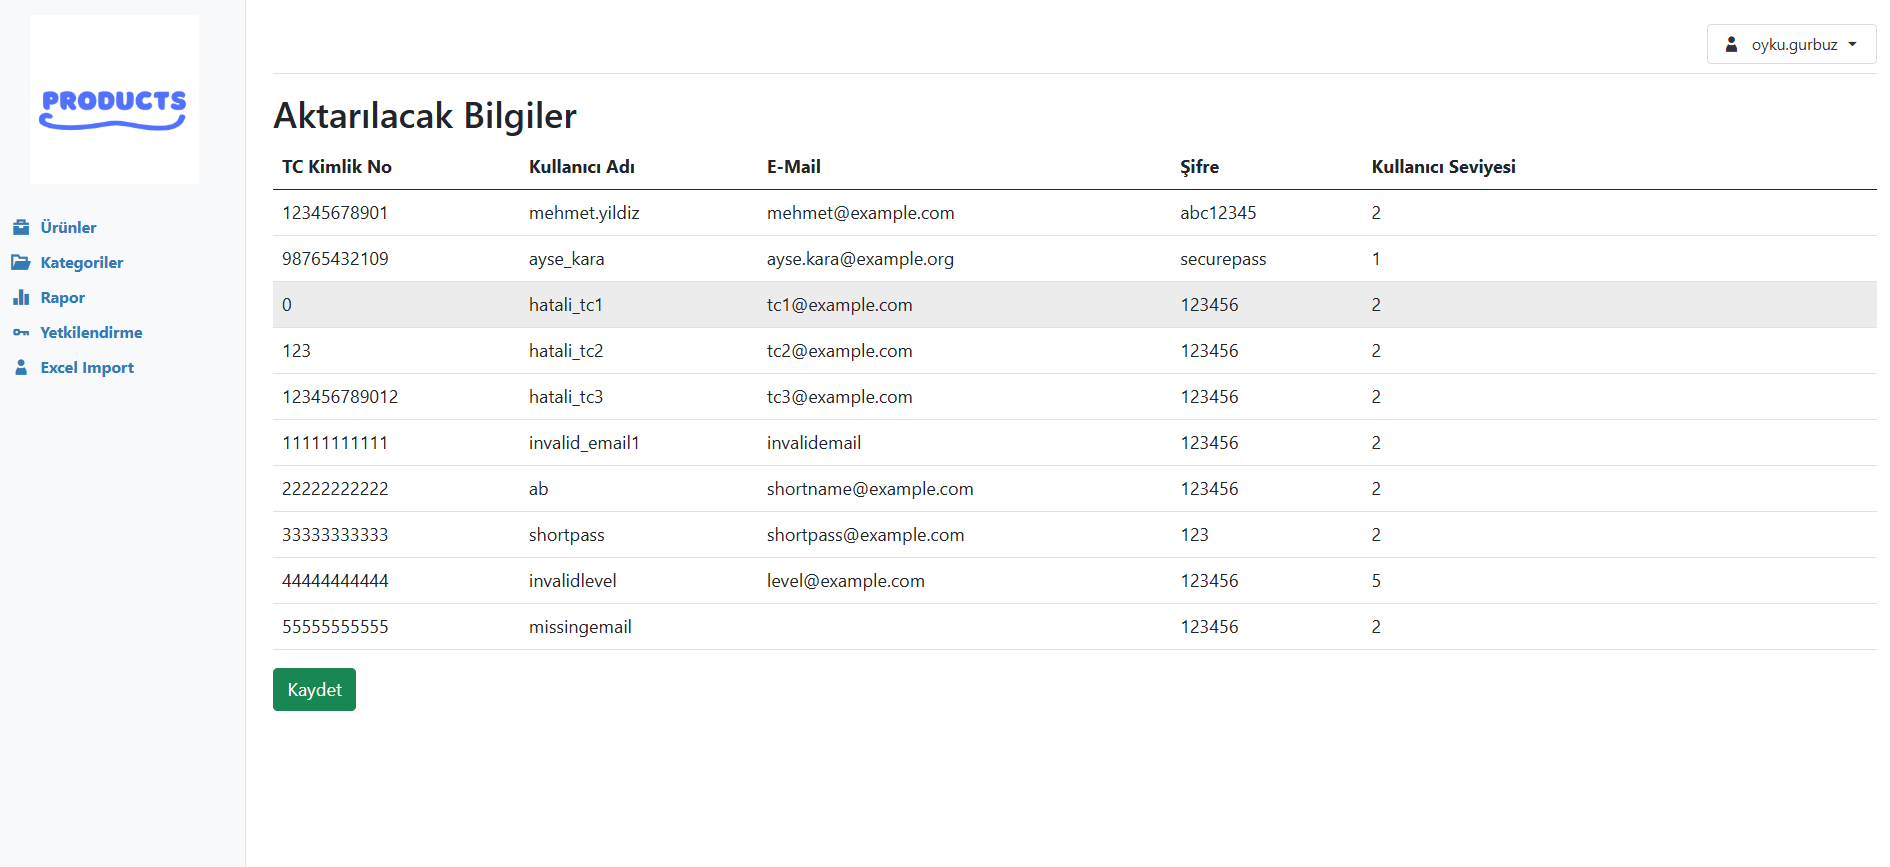
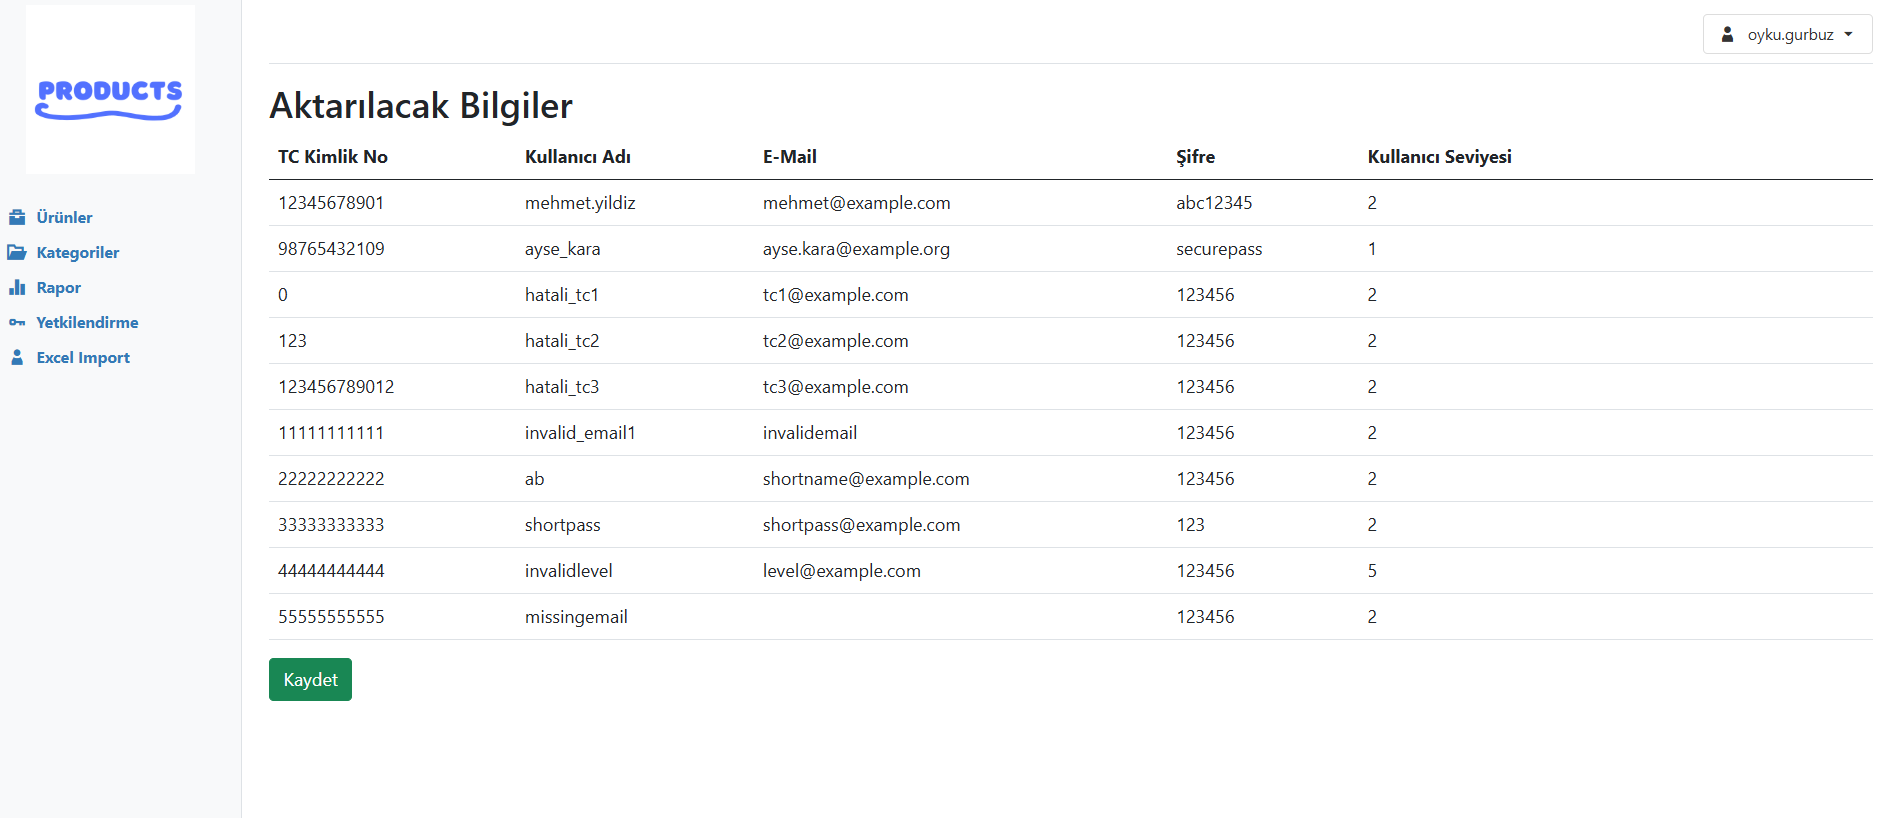
readme update

diff --git a/README.md b/README.md
@@ -182,4 +182,4 @@ Excel Import ekranı üzerinden, kullanıcıya ait bilgiler (T.C. Kimlik Numaras
 
 #### Hatalı kayıtların gösterimi
 
-![Hatalı kayıtların gösterimi](screenshots/results.png)
+![Hatalı kayıtların gösterimi](screenshots/ColumnMappingResult2.png)
